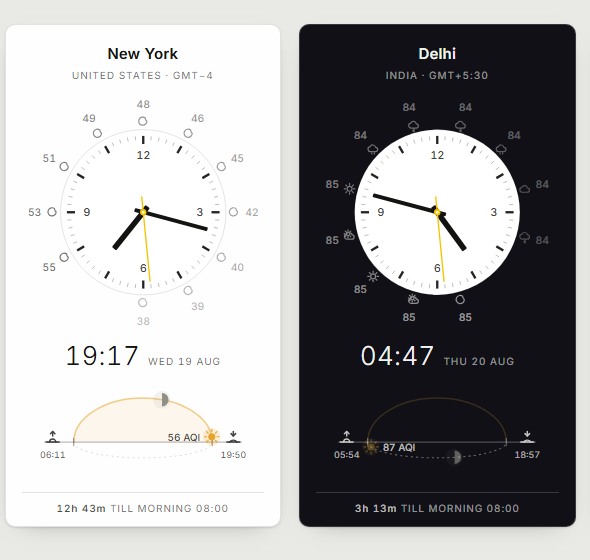
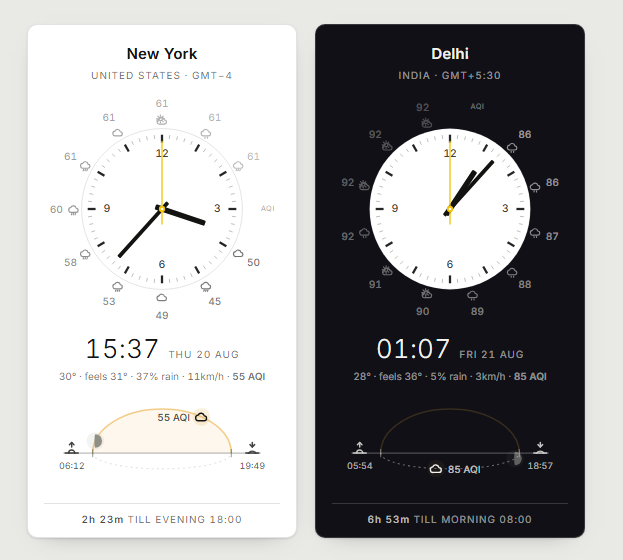
Name the metric in the ring's gap, and spell out the current hour
Two readings of the same problem: with five metrics, a ring of bare numbers no
longer says what it is counting, and a card that shows one metric at a time
answers "what is coming" while never quite answering "what is it like there
now".

The ring's twelfth slot has always been deliberately empty, because twelve hours
is a full turn of the dial and the twelfth entry lands under the hour hand
beside the first. That gap now carries the metric's own name: °C, Feels, Rain,
km/h or AQI, drawn at 8.5 against the readings' 11.5 and at .4 opacity, so it
reads as a caption rather than a twelfth hour. It cost the gap its old second
job of marking now, which was a weaker signal than the hour hand pointing at it
anyway.

Under the time is the hour you are actually in, in full:

  16° · feels 15° · 0% rain · 11km/h · 18 AQI

Whichever reading the ring is drawing is emboldened, so the two read as the same
number rather than as two unrelated ones. Nulls are left out rather than printed
blank, air quality appears only once its setting has paid for the request, and
compact drops the line entirely, as it drops everything else that does not
survive the size.

The dome readout still prints the ring metric beside the sun, so that value now
appears twice on a card. Left alone for the moment rather than resolved in
passing: which of the two should go is a design call, not a tidy-up.

Verified the card markup gained the new element and nothing else, by diffing the
[…]

diff --git a/index.html b/index.html
@@ -358,6 +358,14 @@ html.frozen .hand-sec { opacity: .3; }
    forecast becomes three hours in a strip. What is left is a tile you can scan.
    At this size the numerals and minute ticks are noise, so they are dropped
    and the dial keeps only its hour bars. */
+/* The current hour's readings, spelled out under the time. The ring shows one
+   metric across twelve hours; this shows all of them for the hour you are in,
+   which is the question actually being asked of a clock on a board. */
+.nowline {
+  margin-top: 3px; text-align: center; font-size: 10px; line-height: 1.45;
+  color: var(--muted); font-variant-numeric: tabular-nums;
+}
+.nowline b { font-weight: 600; color: inherit; }
 .mini-wx { display: none; justify-content: center; gap: 3px; margin-top: 3px; }
 .mini-wx svg { width: 15px; height: 15px; opacity: .55; }
 
@@ -397,6 +405,7 @@ html[data-density="compact"] .digital time { font-size: 15px; }
 html[data-density="compact"] .digital time small { font-size: 8px; margin-left: 1px; }
 html[data-density="compact"] .digital .rel { font-size: 8px; letter-spacing: .06em; }
 html[data-density="compact"] .tedit { font-size: 15px; width: 5.2ch; border-bottom-width: 1px; }
+html[data-density="compact"] .nowline { display: none; }
 html[data-density="compact"] .mini-wx { display: flex; }
 html[data-density="compact"] .next {
   font-size: 9px; letter-spacing: .03em; padding: 5px 2px 7px; margin-top: 5px;
@@ -1314,6 +1323,7 @@ function buildCards() {
         <span class="rel" data-settings="sec-date" role="button" tabindex="0"
           title="Date format"></span>
       </div>
+      <div class="nowline"></div>
       <div class="mini-wx"></div>
       <div class="skyband" data-settings="sec-weather" title="Weather forecast">
         <svg class="dome" viewBox="0 0 200 ${SKY.h}" aria-hidden="true">${domeSVG()}</svg>
@@ -1417,6 +1427,7 @@ function buildCards() {
       hubRing: el.querySelector(".hub-ring"),
       next: el.querySelector(".next"),
       wxRing: el.querySelector(".wxring"),
+      nowline: el.querySelector(".nowline"),
       miniWx: el.querySelector(".mini-wx")
     };
   });
@@ -1753,15 +1764,18 @@ const windValue = v => Math.round(state.units === "f" ? v * 0.621371 : v);
    enough to overhang the box and get clipped; the single readout on the dome has
    room and reads better with the unit on it. */
 const METRICS = {
-  temp:  { col: WXCOL.TEMP,  ring: fmtTemp,                  full: fmtTemp },
-  feels: { col: WXCOL.FEELS, ring: fmtTemp,                  full: fmtTemp },
-  rain:  { col: WXCOL.POP,   ring: v => Math.round(v) + "%", full: v => Math.round(v) + "%" },
+  temp:  { col: WXCOL.TEMP,  ring: fmtTemp,                  full: fmtTemp,
+           cap: () => state.units === "f" ? "°F" : "°C" },
+  feels: { col: WXCOL.FEELS, ring: fmtTemp,                  full: fmtTemp,
+           cap: () => "Feels" },
+  rain:  { col: WXCOL.POP,   ring: v => Math.round(v) + "%", full: v => Math.round(v) + "%",
+           cap: () => "Rain" },
   wind:  { col: WXCOL.WIND,  ring: v => String(windValue(v)),
-           full: v => windValue(v) + windUnit() },
+           full: v => windValue(v) + windUnit(), cap: () => windUnit() },
   // The only metric that is not in the forecast row: it comes from the air
   // quality request and is matched to the hour the row is for.
   air:   { aq: AQCOL.AQI,    ring: v => String(Math.round(v)),
-           full: v => Math.round(v) + " AQI" }
+           full: v => Math.round(v) + " AQI", cap: () => "AQI" }
 };
 const metricOf = (row, form, c) => {
   const m = METRICS[state.metric] || METRICS.temp;
@@ -1817,6 +1831,35 @@ function showNow(c, row) {
   }
   const label = row == null ? "" : metricOf(row, "full", c);
   if (c.sunTemp.textContent !== label) c.sunTemp.textContent = label;
+
+  const line = nowLine(c, row);
+  if (c._nowLine !== line) { c._nowLine = line; c.nowline.innerHTML = line; }
+}
+
+/* Everything known about the hour you are actually in, under the time. The
+   ring answers "what is coming"; this answers "what is it like there now",
+   which is the question a board of clocks is usually being asked.
+
+   Readings the forecast did not carry are left out rather than printed blank,
+   and air quality appears only once its setting has paid for the request. The
+   reading the ring is drawing is emboldened, so the two agree at a glance
+   instead of looking like different numbers. */
+function nowLine(c, row) {
+  if (row == null) return "";
+  const bits = [];
+  const put = (metric, text) => {
+    if (!text) return;
+    bits.push(state.metric === metric ? "<b>" + text + "</b>" : text);
+  };
+  if (row[WXCOL.TEMP] != null) put("temp", fmtTemp(row[WXCOL.TEMP]));
+  if (row[WXCOL.FEELS] != null && Math.round(row[WXCOL.FEELS]) !== Math.round(row[WXCOL.TEMP])) {
+    put("feels", "feels " + fmtTemp(row[WXCOL.FEELS]));
+  }
+  if (row[WXCOL.POP] != null) put("rain", Math.round(row[WXCOL.POP]) + "% rain");
+  if (row[WXCOL.WIND] != null) put("wind", windValue(row[WXCOL.WIND]) + windUnit());
+  const aq = aqRow(c.city, row[WXCOL.TS]);
+  if (aq && aq[AQCOL.AQI] != null) put("air", Math.round(aq[AQCOL.AQI]) + " AQI");
+  return bits.join(" · ");
 }
 
 /* -----------------------------------------------------------------------
@@ -1954,6 +1997,21 @@ function paintDialRing(c, nowMs, data) {
           fill="currentColor">${metricOf(row, "ring", c)}</text></g>`);
     }
   });
+
+  /* The twelfth slot is empty by construction, so name what the ring is counting
+     in it. With five metrics a column of bare numbers no longer says whether it
+     is degrees, a percentage or an air quality index, and the gap is the one
+     place a caption can go without displacing a reading. Drawn smaller and
+     fainter than the readings so it reads as a label rather than a twelfth hour. */
+  if (state.ring !== "icons" && rows.length) {
+    const first = partsFor(c.city.tz, new Date(rows[0][WXCOL.TS]));
+    const gap = ((first.minutes % 720) / 720) * 360 - 30;   // one hour back is now
+    const [x, y] = pol(tempR, gap);
+    const m = METRICS[state.metric] || METRICS.temp;
+    out.push(`<text x="${x.toFixed(1)}" y="${y.toFixed(1)}" text-anchor="middle"
+      dominant-baseline="central" font-size="8.5" letter-spacing=".06em"
+      opacity=".4" fill="currentColor">${m.cap()}</text>`);
+  }
   c.wxRing.innerHTML = out.join("");
 }
 

diff --git a/README.md b/README.md
@@ -20,9 +20,22 @@ the domes show no icons; clocks, sunrise and sunset are computed locally.
 The board is the whole page. Controls are three floating buttons in the bottom-right:
 add a city, copy-link, and settings.
 
-Each card carries a dial, an eleven-hour forecast ring, the local time, a sky dome
-showing where the sun is in that city's day, and a countdown to the next end of the
-working day.
+Each card carries a dial, an eleven-hour forecast ring, the local time, the current
+hour's readings, a sky dome showing where the sun is in that city's day, and a
+countdown to the next end of the working day.
+
+The line under the time is everything known about the hour you are in:
+
+```
+16° · feels 15° · 0% rain · 11km/h · 18 AQI
+```
+
+The ring answers what is coming; this answers what it is like there now, which is
+the question a board of clocks is usually being asked. Whichever reading the ring is
+drawing is emboldened, so the two read as the same number rather than as two
+different ones. Anything the forecast did not carry is left out rather than printed
+blank, air quality appears only when its setting is on, and the whole line goes in
+compact, where there is no room for it.
 
 <img src="docs/second-hand.gif" width="420" alt="The second hand sweeping smoothly">
 
@@ -51,9 +64,15 @@ appears twice below.
 
 ![Searching for a city](docs/city-picker.png)
 
-The settings menu shows every mode at once and explains whichever one is selected.
-Two of the settings are modes rather than on/off switches, which a cycling button
-made impossible to discover.
+The settings menu is one row per setting, in four groups: the label on the left, the
+control on the right. Where both options are named modes the control shows every mode
+at once, since a button you have to click repeatedly to discover what it cycles
+through hides them. Where a setting is genuinely on or off, it is a switch.
+
+Each row explains itself on hover rather than under itself. Fifteen sections with a
+paragraph apiece stood 1341px tall, which is taller than the menu can show on a
+1440x900 screen, so the last settings added to it were invisible without scrolling a
+panel that gives no sign it scrolls. The same words are now on each row's title.
 
 ![The settings menu](docs/settings.png)
 
@@ -393,8 +412,11 @@ a full turn of this dial, so the twelfth entry lands on exactly the same angle a
 current hour. That closed the ring into a seamless circle, with the faintest entry
 sitting under the hour hand right beside the strongest, with nothing to read it from, and
 the whole ring appeared to shuffle arbitrarily whenever the time changed. Stopping one
-short leaves a gap at the current hour: the gap is now, and the ring reads clockwise
-from it.
+short leaves a gap at the current hour, and that gap is where the ring says what it is
+counting: `°C`, `Feels`, `Rain`, `km/h` or `AQI`, drawn smaller and fainter than the
+readings so it reads as a caption rather than a twelfth hour. With one metric the
+numbers spoke for themselves. With five, a column of bare numbers no longer says
+whether it is degrees, a percentage or an air quality index.
 
 **Dial ring** chooses what the ring carries: `Icons`, `Numbers`, or `Both`, which is
 the default: numbers on an outer ring with conditions on an inner one. Which number is

diff --git a/CLAUDE.md b/CLAUDE.md
@@ -105,7 +105,11 @@ Traps, all of which have already cost time here:
   end is exact. An earlier version outlined the whole disc so a new moon had a shape, and
   every phase then read as full.
 - **The forecast ring shows 11 hours, not 12.** The twelfth lands on the same angle as the
-  current hour, closing the ring into a seamless circle with no reading direction.
+  current hour, closing the ring into a seamless circle with no reading direction. The
+  gap that leaves now carries the metric's caption (`°C`, `Feels`, `Rain`, `km/h`,
+  `AQI`), smaller and fainter than the readings. It used to mean "now" on its own, which
+  stopped being worth a slot once there were five metrics and no way to tell which one
+  the numbers were.
 - **A plain press on a dial must not call `preventDefault`.** Cancelling `pointerdown`
   suppresses the compatibility mouse events, and click-to-jump depends on the click that
   follows. The native card drag is stopped by clearing `draggable`, selection by
@@ -128,9 +132,16 @@ Groups: `preset`, `density`, `hour12`, `date`, `nums`, `ticks`, `shade`, `solar`
 constant.
 
 Adding a setting means: a key in `LS`, a field in `state` with a validity check, a
-`<section>` in the popover, a case in `settingValue`, a branch in `applySetting`, and a
-hint. Anything that changes the dial's geometry needs `buildCards()`. Anything that only
-changes ink needs `c._k = undefined` then `repaintAll()`.
+`.row` in the right `.grp` of the popover, a case in `settingValue`, a branch in
+`applySetting`, and a `tip()` line in `syncTools`. Anything that changes the dial's
+geometry needs `buildCards()`. Anything that only changes ink needs `c._k = undefined`
+then `repaintAll()`.
+
+The menu is rows, not sections: label left, control right, explanation on the row's
+`title`. Two named modes get a `.seg`; a genuine on/off gets a `.tgl` switch. Keep it
+short. It reached fifteen sections at 1341px tall, against 655px of menu on a 1440x900
+screen, and the setting added last was on screen and unreachable. Measure the height
+after adding one.
 
 The forecast cache is versioned. A row is
 `[ts, code, temp, feels, rainChance, wind, humidity]` and `WX_CACHE_V` is 2. Widening a
